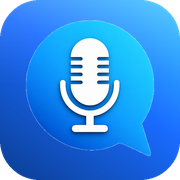
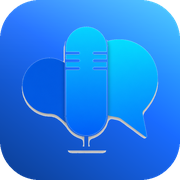
Broaden Ramble formats and refresh brand mark
Position Ramble around format filters (article, X post, text, email,
free ramble, notes), update landing copy and panels, install a closer
main-logo stand-in, and add brand/Ramble.ai for the official MAIN LOGO drop-in.

diff --git a/ramble/app/page.tsx b/ramble/app/page.tsx
@@ -2,6 +2,15 @@ import Image from "next/image";
 import SiteNav from "@/components/SiteNav";
 import HeroVisual from "@/components/HeroVisual";
 
+const formats = [
+  "Article",
+  "X post",
+  "Text message",
+  "Email",
+  "Free ramble",
+  "Notes",
+];
+
 const features = [
   {
     eyebrow: "Listen",
@@ -14,6 +23,17 @@ const features = [
     ],
   },
   {
+    eyebrow: "Formats",
+    title: "Pick how the ramble should land.",
+    body: "Filter the output before you speak — article, X post, text, email, free ramble, or notes. Same Listen button. Different clean cuts.",
+    points: [
+      "Article & long-form",
+      "X / short social posts",
+      "Text messages & emails",
+      "Free ramble when you just need it shaped",
+    ],
+  },
+  {
     eyebrow: "Folders",
     title: "Every subject gets its own room.",
     body: "Create folders for the things you keep returning to. Rename them. Keep rambles organized instead of dumped.",
@@ -23,33 +43,23 @@ const features = [
       "Drafts stay with the ramble that made them",
     ],
   },
-  {
-    eyebrow: "Publish-ready",
-    title: "X posts and Substack articles, cleaned up.",
-    body: "Ramble turns loose speech into a clean cut draft for the channel you want — short for X, long-form for Substack.",
-    points: [
-      "Platform-aware structure",
-      "Your ideas, tighter prose",
-      "Copy, edit, ship",
-    ],
-  },
 ];
 
 const steps = [
   {
     n: "01",
-    title: "Ramble",
-    body: "Hit Listen and talk the idea out loud — messy is fine.",
+    title: "Pick a format",
+    body: "Article, X post, text, email, free ramble — choose the filter that fits.",
   },
   {
     n: "02",
-    title: "Shape",
-    body: "Choose X or Substack. Ramble forms a clean article from the recording.",
+    title: "Ramble",
+    body: "Hit Listen and talk it out. Messy is fine. That’s the point.",
   },
   {
     n: "03",
-    title: "File it",
-    body: "Park it in a folder. Rename, revisit, publish when it feels right.",
+    title: "Get the clean cut",
+    body: "Ramble shapes your speech into that format. File it. Copy it. Ship it.",
   },
 ];
 
@@ -78,9 +88,23 @@ export default function Home() {
             <span className="brand-text italic">Just ramble.</span>
           </h1>
           <p className="fade-up fade-up-delay-2 mx-auto mt-5 max-w-xl text-base leading-relaxed text-muted sm:text-lg">
-            For people who want to write articles but hate writing and typing.
-            Speak freely. Get a clean X post or Substack article back.
+            Speak freely. Filter the output — article, X post, text, email, or a
+            free ramble — and get a clean cut draft back.
           </p>
+          <div className="fade-up fade-up-delay-3 mt-7 flex flex-wrap items-center justify-center gap-2">
+            {formats.map((format, i) => (
+              <span
+                key={format}
+                className={`rounded-full px-3.5 py-1.5 text-[12px] font-semibold tracking-tight ${
+                  i === 0
+                    ? "bg-foreground text-white"
+                    : "border border-border bg-white text-muted"
+                }`}
+              >
+                {format}
+              </span>
+            ))}
+          </div>
           <div className="fade-up fade-up-delay-3 mt-8 flex flex-col items-center justify-center gap-3 sm:flex-row">
             <a href="#waitlist" className="cta-pill min-w-[168px]">
               <MicIcon />
@@ -98,7 +122,7 @@ export default function Home() {
               <Dot /> Built for phones
             </span>
             <span className="inline-flex items-center gap-1.5">
-              <Dot /> Folder-organized
+              <Dot /> Format filters
             </span>
             <span className="inline-flex items-center gap-1.5">
               <Dot /> MIT open source
@@ -132,7 +156,7 @@ export default function Home() {
               className="mt-3 text-[clamp(2rem,4.5vw,3rem)] leading-[1.1] tracking-[-0.02em]"
               style={{ fontFamily: "var(--font-instrument), Georgia, serif" }}
             >
-              The design you speak is the draft you get
+              The draft you speak is the draft you get
             </h2>
           </div>
 
@@ -189,7 +213,7 @@ export default function Home() {
                 className="mt-3 text-[clamp(2rem,4.5vw,3rem)] leading-[1.1] tracking-[-0.02em]"
                 style={{ fontFamily: "var(--font-instrument), Georgia, serif" }}
               >
-                Three steps. No blank page.
+                Three steps. Any format.
               </h2>
             </div>
             <div className="mt-12 grid gap-4 sm:grid-cols-3 sm:gap-5">
@@ -343,7 +367,13 @@ function FeaturePanel({ index }: { index: number }) {
       key="listen"
       className="relative flex min-h-[280px] items-center justify-center overflow-hidden rounded-[2rem] bg-[linear-gradient(145deg,#071536,#0b3d91_45%,#2ec5ff)] p-8 shadow-[var(--shadow-soft)]"
     >
-      <div className="absolute inset-0 opacity-30" style={{ backgroundImage: "url(/hero-texture.jpg)", backgroundSize: "cover" }} />
+      <div
+        className="absolute inset-0 opacity-30"
+        style={{
+          backgroundImage: "url(/hero-texture.jpg)",
+          backgroundSize: "cover",
+        }}
+      />
       <button
         type="button"
         className="relative flex h-28 w-28 flex-col items-center justify-center rounded-full bg-white text-[#0b3d91] shadow-2xl transition hover:scale-[1.03]"
@@ -356,11 +386,51 @@ function FeaturePanel({ index }: { index: number }) {
       </button>
     </div>,
     <div
+      key="formats"
+      className="min-h-[280px] rounded-[2rem] border border-border bg-white p-6 shadow-[var(--shadow-soft)]"
+    >
+      <p className="text-[11px] font-semibold uppercase tracking-[0.16em] text-muted-2">
+        Output filter
+      </p>
+      <div className="mt-4 flex flex-wrap gap-2">
+        {[
+          { label: "Article", on: true },
+          { label: "X post", on: false },
+          { label: "Text", on: false },
+          { label: "Email", on: false },
+          { label: "Free ramble", on: false },
+          { label: "Notes", on: false },
+        ].map((item) => (
+          <span
+            key={item.label}
+            className={`rounded-full px-3.5 py-2 text-xs font-semibold ${
+              item.on
+                ? "bg-foreground text-white"
+                : "border border-border bg-surface text-muted"
+            }`}
+          >
+            {item.label}
+          </span>
+        ))}
+      </div>
+      <div className="mt-6 rounded-2xl border border-border bg-surface p-4">
+        <p className="text-[11px] font-semibold uppercase tracking-[0.16em] text-muted-2">
+          Shaping as
+        </p>
+        <p
+          className="mt-2 text-xl leading-snug text-foreground"
+          style={{ fontFamily: "var(--font-instrument), Georgia, serif" }}
+        >
+          Article — clean long-form from your ramble.
+        </p>
+      </div>
+    </div>,
+    <div
       key="folders"
       className="min-h-[280px] rounded-[2rem] border border-border bg-white p-6 shadow-[var(--shadow-soft)]"
     >
       <div className="space-y-3">
-        {["Product ideas", "Substack drafts", "Shift notes"].map((name, i) => (
+        {["Product ideas", "Client emails", "Shift notes"].map((name, i) => (
           <div
             key={name}
             className="flex items-center justify-between rounded-2xl border border-border bg-surface px-4 py-3"
@@ -378,36 +448,6 @@ function FeaturePanel({ index }: { index: number }) {
             <span className="text-xs font-medium text-muted-2">Rename</span>
           </div>
         ))}
-      </div>
-    </div>,
-    <div
-      key="publish"
-      className="min-h-[280px] rounded-[2rem] border border-border bg-white p-6 shadow-[var(--shadow-soft)]"
-    >
-      <div className="flex gap-2">
-        <span className="rounded-full bg-foreground px-3 py-1 text-xs font-semibold text-white">
-          X post
-        </span>
-        <span className="rounded-full border border-border px-3 py-1 text-xs font-semibold text-muted">
-          Substack
-        </span>
-      </div>
-      <div className="mt-5 space-y-3">
-        <div className="h-3 w-[80%] rounded-full bg-foreground/90" />
-        <div className="h-3 w-full rounded-full bg-border" />
-        <div className="h-3 w-[92%] rounded-full bg-border" />
-        <div className="h-3 w-[70%] rounded-full bg-border" />
-        <div className="mt-6 rounded-2xl border border-border bg-surface p-4">
-          <p className="text-[11px] font-semibold uppercase tracking-[0.16em] text-muted-2">
-            From your ramble
-          </p>
-          <p
-            className="mt-2 text-lg leading-snug text-foreground"
-            style={{ fontFamily: "var(--font-instrument), Georgia, serif" }}
-          >
-            Anyone can generate words. Not everyone can decide what should exist.
-          </p>
-        </div>
       </div>
     </div>,
   ];

diff --git a/ramble/app/layout.tsx b/ramble/app/layout.tsx
@@ -18,12 +18,12 @@ const instrument = Instrument_Serif({
 export const metadata: Metadata = {
   title: "Ramble — Speak freely. Publish clean.",
   description:
-    "Open-source voice writing for people who hate typing. Ramble into your phone, get a clean X post or Substack article.",
+    "Open-source voice writing. Ramble into your phone, pick a format — article, X post, text, email, or free ramble — and get a clean draft back.",
   metadataBase: new URL("https://ramble.app"),
   openGraph: {
     title: "Ramble — Speak freely. Publish clean.",
     description:
-      "Open-source voice writing for people who hate typing. Ramble into your phone, get a clean X post or Substack article.",
+      "Open-source voice writing. Ramble into your phone, pick a format — article, X post, text, email, or free ramble — and get a clean draft back.",
     images: ["/logo.png"],
   },
   icons: {

diff --git a/ramble/README.md b/ramble/README.md
@@ -2,13 +2,22 @@
 
 **Speak freely. Publish clean.**
 
-Open-source voice writing for people who want to write articles but hate writing and typing. Ramble into your phone, get a clean **X post** or **Substack article**.
+Open-source voice writing for people who hate typing. Ramble into your phone, pick a **format filter**, and get a clean draft back.
+
+## Formats
+
+- Article / long-form
+- X post / short social
+- Text message
+- Email
+- Free ramble
+- Notes
 
 ## Product
 
 - Big **Listen** button
+- **Format filters** before you speak
 - **Folders** to organize rambles (create + rename)
-- Drafts shaped for **X** or **Substack**
 - Premium, restrained UI — not vibe-coded chrome
 
 ## Stack
@@ -33,14 +42,14 @@ npm run build
 
 ## Brand
 
-Drop your real logo files here (from laptop):
+Official source files live in `brand/Ramble.ai/`.
+
+Drop your real **`MAIN LOGO`** there (PNG preferred). Until then, `public/logo.png` and `public/app-icon.png` are working stand-ins.
 
 | File | Use |
 |---|---|
-| `public/logo.png` | Transparent mark (hero, open-source, footer) |
-| `public/app-icon.png` | Optional: squircle app icon for the top-left nav (if omitted, nav can use `logo.png`) |
-
-Preferred: PNG with transparent background. After replacing files, restart `npm run dev`.
+| `public/logo.png` | Transparent mark (hero, sections, footer) |
+| `public/app-icon.png` | Squircle app icon for the top-left nav |
 
 ## License
 

diff --git a/ramble/brand/Ramble.ai/README.md b/ramble/brand/Ramble.ai/README.md
@@ -1,0 +1,10 @@
+# Ramble.ai brand source
+
+Drop the official **`MAIN LOGO`** file in this folder (PNG preferred, transparent background).
+
+Once it’s here, the site will use it as:
+
+- `public/logo.png` — mark for hero / sections / footer
+- `public/app-icon.png` — squircle app icon for the top-left nav
+
+If you upload `MAIN LOGO.png` (or `.jpg` / `.webp`), tell the agent and it will cut transparency and wire it everywhere.
